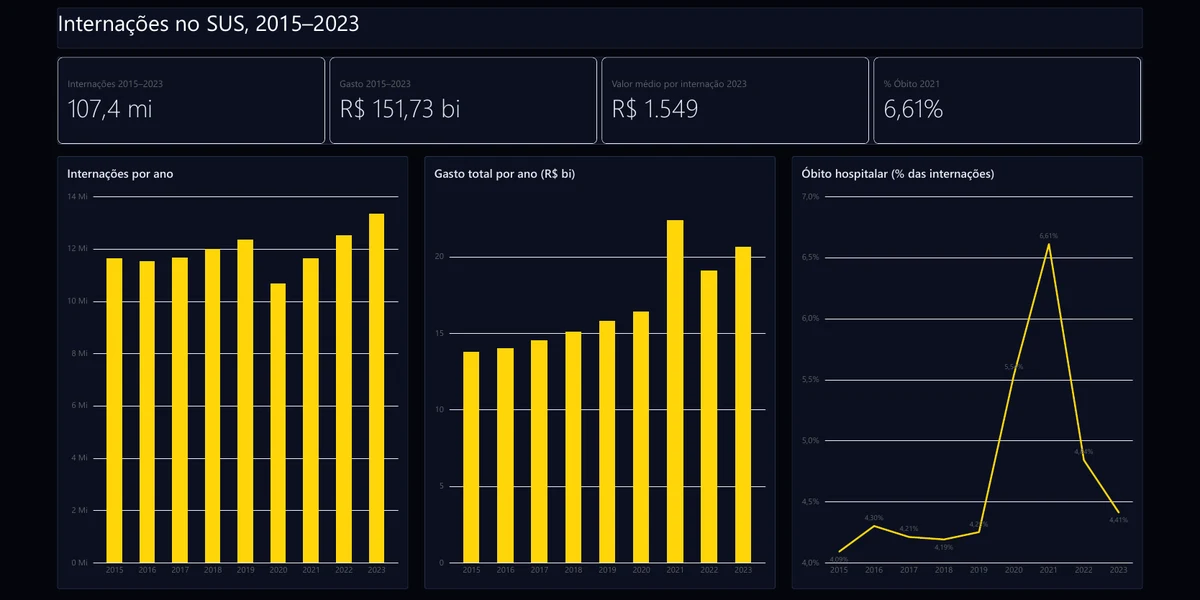
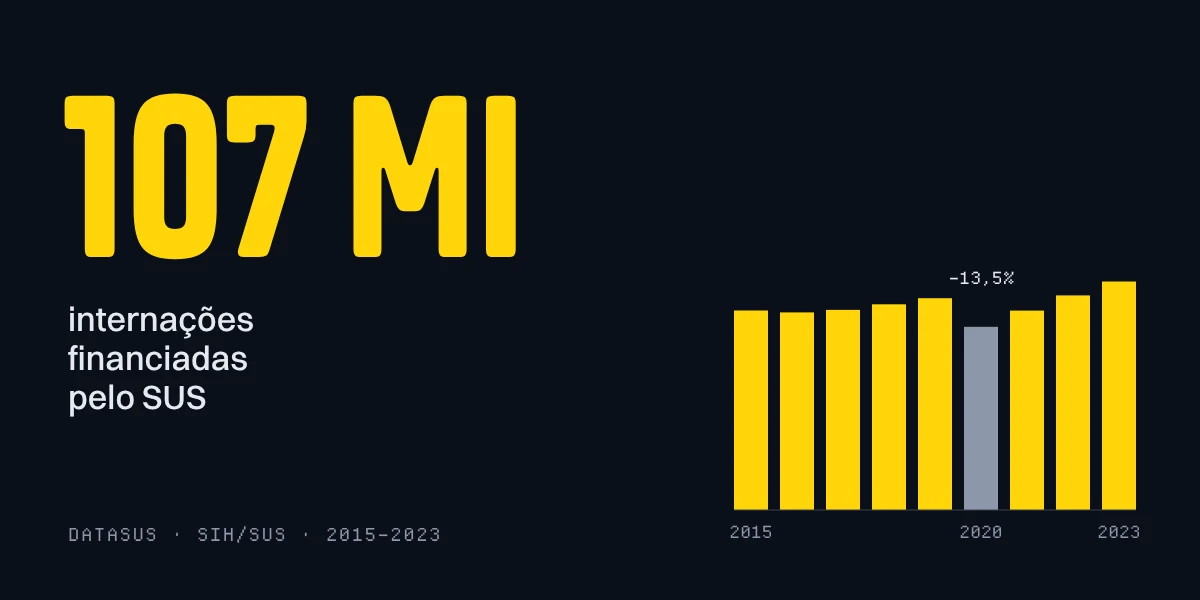
Case da Psiquê com briefing e imagem de abertura, Sobre mais enxuto e capa tipográfica do DataSUS

diff --git a/src/style.css b/src/style.css
@@ -514,3 +514,17 @@ body.contato-amarelo { --onda-cor: 0,0,0; --onda-fundo: #f3e594; background: #f3
 .pranchas.telas img { aspect-ratio: 16 / 9; object-fit: contain; background: #04060d; }
 .projeto-pg .contato { flex-wrap: wrap; align-items: center; gap: 0.5rem; }
 .projeto-pg .contato .links { margin-top: 0; }
+
+/* ---------- sobre: listas compactas ---------- */
+.compacta .linha { padding-block: 0.55rem 0.45rem; }
+.compacta .linha strong { font-size: clamp(1.15rem, 1.7vw, 1.5rem); }
+.fecho .acoes { display: flex; gap: 0.5rem; flex-wrap: wrap; justify-content: flex-end; }
+@media (max-width: 860px) {
+  .fecho .acoes { grid-column: 1 / -1; grid-row: 3; justify-content: flex-start; }
+}
+
+/* ---------- projeto: imagem de abertura e grade de duas pranchas ---------- */
+.heroi { margin: 0; border-bottom: 1px solid var(--tinta); }
+.heroi img { display: block; width: 100%; height: clamp(260px, 42vw, 620px); object-fit: cover; object-position: 50% 45%; }
+.pranchas.duas { grid-template-columns: repeat(2, minmax(0, 1fr)); max-width: 1400px; }
+@media (max-width: 700px) { .pranchas.duas { grid-template-columns: 1fr; } }

diff --git a/src/dados-en.js b/src/dados-en.js
@@ -6,7 +6,7 @@
 window.projetosEN = [
   {
     id: "datasus",
-    area: "Data", capa: "../projetos/datasus/capa.webp",
+    area: "Data", capa: "../projetos/datasus/capa-en.webp",
     nome: "PUBLIC HEALTH IN DATA",
     curto: "DATASUS",
     contexto: "Personal project with open data from SUS, Brazil's free public health system: 107 million hospital admissions funded by SUS between 2015 and 2023.",
